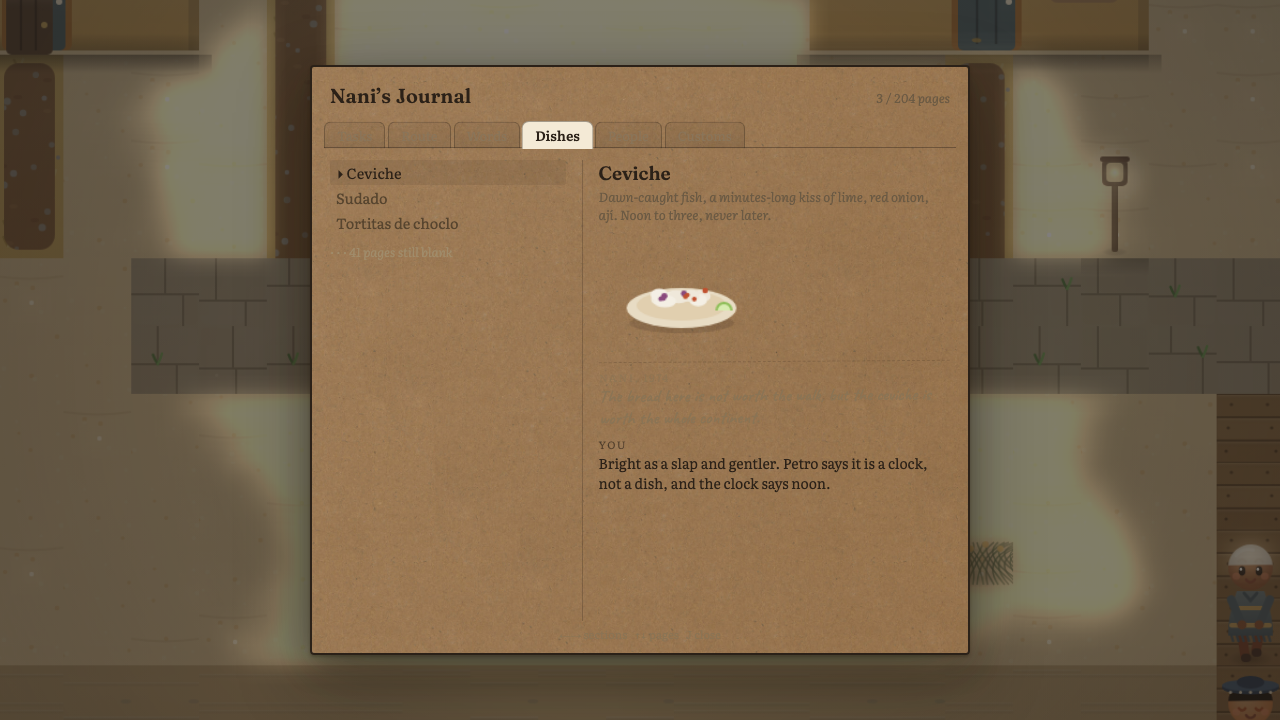
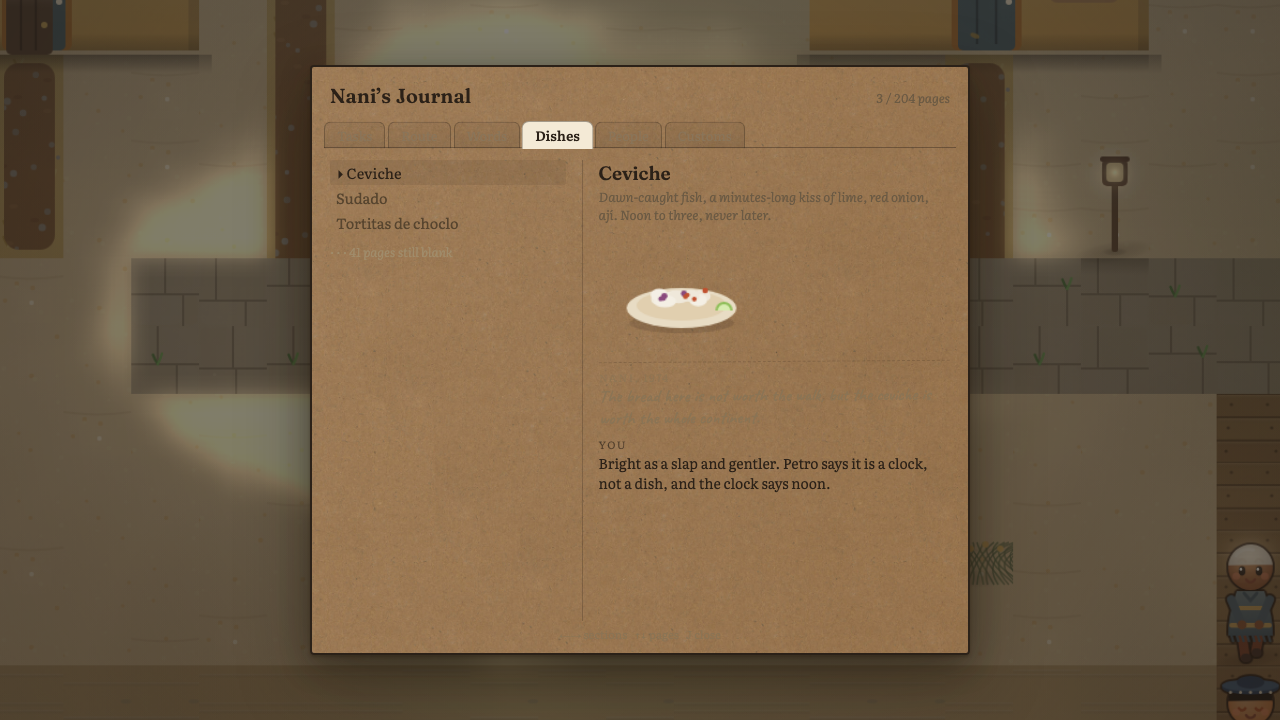
World art refactor, gouache-illustration edition
Cut-paper ink outlines on every figure (people and animals), a real
directional sun with skewed cast shadows that stretch at dusk, two-octave
ground washes so fields stop being flat fills, muted ground bases so
figures carry the chroma, paper grain over the whole frame, a gentle
saturation grade on the GPU stage. The Oaxaca village finally has its
name: San Isidro Guelazana.

diff --git a/src/engine/renderer.ts b/src/engine/renderer.ts
@@ -52,6 +52,8 @@ export class Renderer {
   private emotes: Emote[] = [];
   private puffs: Puff[] = [];
 
+  private grain: CanvasPattern | null = null;
+
   constructor(readonly canvas: HTMLCanvasElement) {
     const ctx = canvas.getContext('2d', { alpha: false });
     if (!ctx) throw new Error('2d canvas context unavailable');
@@ -61,6 +63,13 @@ export class Renderer {
     ctx.imageSmoothingEnabled = true;
     ctx.imageSmoothingQuality = 'high';
     this.atmospheres = buildAtmospheres();
+    // Paper tooth over the whole frame: the world is an illustration in her
+    // journal, and illustrations live on paper. Loads lazily; absent, no harm.
+    const grainImg = new Image();
+    grainImg.onload = () => {
+      this.grain = ctx.createPattern(grainImg, 'repeat');
+    };
+    grainImg.src = '/assets/textures/paper-grain-white.jpg';
   }
 
   /** Chapters bring their own weather. */
@@ -169,8 +178,14 @@ export class Renderer {
     for (const t of tall) {
       layers.push({
         sort: t.cy + 0.5,
-        draw: () =>
-          this.tiles.drawTall(ctx, t.kind, (t.cx * TILE - cam.x) * A, (t.cy * TILE - cam.y) * A, t.cx, t.cy),
+        draw: () => {
+          const tx = (t.cx * TILE - cam.x) * A;
+          const ty = (t.cy * TILE - cam.y) * A;
+          // Trees and freestanding props cast into the same sun as people.
+          if (t.kind === 'tree' || t.kind === 'palm') this.castShadow(tx + S / 2, ty + S - 8, 52, 0.2);
+          else if (this.tiles.castsSun(t.kind)) this.castShadow(tx + S / 2, ty + S - 6, 34, 0.18);
+          this.tiles.drawTall(ctx, t.kind, tx, ty, t.cx, t.cy);
+        },
       });
     }
     layers.sort((a, b) => a.sort - b.sort);
@@ -189,53 +204,87 @@ export class Renderer {
     this.drawWeather(map, cam);
     const atm = this.atmospheres[this.mood] ?? this.atmospheres['warm'];
     if (atm) ctx.drawImage(atm, 0, 0);
+    if (this.grain) {
+      ctx.save();
+      ctx.globalCompositeOperation = 'multiply';
+      ctx.globalAlpha = 0.09;
+      ctx.fillStyle = this.grain;
+      ctx.fillRect(0, 0, W, H);
+      ctx.restore();
+    }
   }
 
   /** World-anchored tonal patches, keyed to a coarse grid so they never move. */
   private groundTint(map: TileMap, cam: Camera, x0: number, y0: number, x1: number, y1: number) {
     const ctx = this.ctx;
+    // Two octaves of gouache: broad warm/cool washes the size of a meadow,
+    // then the familiar smaller patches. Flat fields stop being flat.
     const TINTS = [
-      'rgba(96,70,36,0.085)', // dry shadowed earth
-      'rgba(255,236,180,0.075)', // sun-bleached
-      'rgba(88,104,60,0.07)', // faint green flush
-      'rgba(140,90,50,0.06)', // iron warmth
+      'rgba(96,70,36,0.11)', // dry shadowed earth
+      'rgba(255,236,180,0.10)', // sun-bleached
+      'rgba(88,104,60,0.10)', // faint green flush
+      'rgba(140,90,50,0.08)', // iron warmth
     ];
-    for (let gy = (y0 >> 2) - 1; gy <= (y1 >> 2) + 1; gy++) {
-      for (let gx = (x0 >> 2) - 1; gx <= (x1 >> 2) + 1; gx++) {
-        const h = cellHash(gx, gy, 101);
-        if (h > 0.62) continue;
-        const tint = TINTS[Math.floor(h * 40) % TINTS.length] ?? TINTS[0]!;
-        const wx = (gx * 4 + 2 + (cellHash(gx, gy, 55) - 0.5) * 4) * TILE;
-        const wy = (gy * 4 + 2 + (cellHash(gx, gy, 77) - 0.5) * 4) * TILE;
-        // Skip patches centered outside the map so scree stays calm.
-        if (!map.inBounds(Math.floor(wx / TILE), Math.floor(wy / TILE))) continue;
-        const x = (wx - cam.x) * A;
-        const y = (wy - cam.y) * A;
-        const r = (2.2 + cellHash(gx, gy, 91) * 2.4) * TILE * A;
-        const grad = ctx.createRadialGradient(x, y, r * 0.15, x, y, r);
-        grad.addColorStop(0, tint);
-        grad.addColorStop(1, 'rgba(0,0,0,0)');
-        ctx.fillStyle = grad;
-        ctx.fillRect(x - r, y - r, r * 2, r * 2);
+    const octave = (cell: number, salt: number, rBase: number, rVar: number, boost: number) => {
+      const gy0 = Math.floor(y0 / cell) - 1;
+      const gy1 = Math.floor(y1 / cell) + 1;
+      const gx0 = Math.floor(x0 / cell) - 1;
+      const gx1 = Math.floor(x1 / cell) + 1;
+      for (let gy = gy0; gy <= gy1; gy++) {
+        for (let gx = gx0; gx <= gx1; gx++) {
+          const h = cellHash(gx, gy, salt);
+          if (h > 0.62) continue;
+          const tint = TINTS[Math.floor(h * 40) % TINTS.length] ?? TINTS[0]!;
+          const wx = (gx * cell + cell / 2 + (cellHash(gx, gy, salt + 3) - 0.5) * cell) * TILE;
+          const wy = (gy * cell + cell / 2 + (cellHash(gx, gy, salt + 7) - 0.5) * cell) * TILE;
+          // Skip patches centered outside the map so scree stays calm.
+          if (!map.inBounds(Math.floor(wx / TILE), Math.floor(wy / TILE))) continue;
+          const x = (wx - cam.x) * A;
+          const y = (wy - cam.y) * A;
+          const r = (rBase + cellHash(gx, gy, salt + 11) * rVar) * TILE * A;
+          const grad = ctx.createRadialGradient(x, y, r * 0.15, x, y, r);
+          grad.addColorStop(0, tint);
+          grad.addColorStop(1, 'rgba(0,0,0,0)');
+          ctx.save();
+          ctx.globalAlpha = boost;
+          ctx.fillStyle = grad;
+          ctx.fillRect(x - r, y - r, r * 2, r * 2);
+          ctx.restore();
+        }
       }
-    }
+    };
+    octave(9, 131, 5.5, 4.5, 1); // the meadow-scale washes
+    octave(4, 101, 2.2, 2.4, 0.9); // the close-up dapple
+  }
+
+  /**
+   * The sun has a direction. Everything that stands casts a soft skewed
+   * shadow toward the north-west of the screen; at dusk the shadows stretch.
+   * This one pass does more "real place" work than any texture.
+   */
+  private castShadow(sx: number, sy: number, w: number, strength = 0.22) {
+    const ctx = this.ctx;
+    const stretch = 1 + this.nightK * 0.5; // dusk pulls shadows long
+    const grad = ctx.createRadialGradient(sx, sy, 2, sx, sy, w);
+    grad.addColorStop(0, `rgba(38,26,14,${strength})`);
+    grad.addColorStop(0.7, `rgba(38,26,14,${strength * 0.4})`);
+    grad.addColorStop(1, 'rgba(38,26,14,0)');
+    ctx.save();
+    ctx.translate(sx, sy);
+    // Skew toward the lower-left: late-morning Andean sun, kept forever.
+    ctx.transform(1, 0, -0.55, 0.34 * stretch, 0, 0);
+    ctx.translate(-sx, -sy);
+    ctx.fillStyle = grad;
+    ctx.fillRect(sx - w, sy - w, w * 2, w * 2);
+    ctx.restore();
   }
 
   private drawSprite(s: Sprite, sxf: number, syf: number, index: number) {
     const ctx = this.ctx;
     const sx = Math.round(sxf);
     const sy = Math.round(syf);
-    // Soft contact shadow; the body bobs over it.
-    const shGrad = ctx.createRadialGradient(sx + S / 2, sy + S - 6, 2, sx + S / 2, sy + S - 6, 22);
-    shGrad.addColorStop(0, 'rgba(26,18,12,0.30)');
-    shGrad.addColorStop(1, 'rgba(26,18,12,0)');
-    ctx.save();
-    ctx.translate(sx + S / 2, sy + S - 6);
-    ctx.scale(1, 0.38);
-    ctx.translate(-(sx + S / 2), -(sy + S - 6));
-    ctx.fillStyle = shGrad;
-    ctx.fillRect(sx + S / 2 - 24, sy + S - 30, 48, 48);
-    ctx.restore();
+    // A directional cast shadow: the figure stands IN the light, not on a dot.
+    this.castShadow(sx + S / 2, sy + S - 6, 30, 0.24);
 
     const row = DIR_ROW[s.actor.dir];
     const dx = sx - Math.floor((AW - S) / 2);

diff --git a/src/art/pix.ts b/src/art/pix.ts
@@ -265,19 +265,38 @@ export function rect(
 }
 
 /**
- * Adds a 1px dark outline around every sprite in a sheet, cell by cell so
- * neighboring frames never bleed into each other. Classic pixel-art
- * readability: characters pop off any background.
+ * Wraps every sprite in a sheet with a soft ink edge, cell by cell so
+ * neighboring frames never bleed into each other. In the smooth era this is
+ * the cut-paper look: figures read as illustrations pasted into the world,
+ * and pop off any ground they stand on.
  */
+/** Mixes a hex color toward its own gray, for grounds that should recede. */
+export function mute(hex: string, k: number): string {
+  const n = Number.parseInt(hex.slice(1), 16);
+  const r = (n >> 16) & 0xff;
+  const g = (n >> 8) & 0xff;
+  const b = n & 0xff;
+  const l = 0.299 * r + 0.587 * g + 0.114 * b;
+  const mix = (c: number) => Math.round(c + (l - c) * k);
+  return `#${((mix(r) << 16) | (mix(g) << 8) | mix(b)).toString(16).padStart(6, '0')}`;
+}
+
 export function outlineSheet(
   sheet: HTMLCanvasElement,
   cellW: number,
   cellH: number,
-  color = '#241a12',
+  color = 'rgba(38,26,16,0.55)',
+  radius = 2,
 ): HTMLCanvasElement {
   const { cv: out, g } = surface(sheet.width, sheet.height);
   const { cv: cell, g: cg } = surface(cellW, cellH);
   const { cv: sil, g: sg } = surface(cellW, cellH);
+
+  // Eight offsets make a smooth ring at antialiased resolution.
+  const ring: [number, number][] = [];
+  for (let k = 0; k < 8; k++) {
+    ring.push([Math.cos((k / 8) * Math.PI * 2) * radius, Math.sin((k / 8) * Math.PI * 2) * radius]);
+  }
 
   for (let cy = 0; cy < sheet.height; cy += cellH) {
     for (let cx = 0; cx < sheet.width; cx += cellW) {
@@ -290,13 +309,13 @@ export function outlineSheet(
       sg.globalCompositeOperation = 'source-in';
       sg.fillStyle = color;
       sg.fillRect(0, 0, cellW, cellH);
-      // Stamp the silhouette at the four cardinal offsets, then the art on
-      // top, clipped so nothing leaks into the neighboring frame.
+      // Stamp the silhouette around the ring, then the art on top, clipped
+      // so nothing leaks into the neighboring frame.
       g.save();
       g.beginPath();
       g.rect(cx, cy, cellW, cellH);
       g.clip();
-      for (const [dx, dy] of [[1, 0], [-1, 0], [0, 1], [0, -1]] as const) {
+      for (const [dx, dy] of ring) {
         g.drawImage(sil, cx + dx, cy + dy);
       }
       g.drawImage(cell, cx, cy);

diff --git a/src/art/tiles.ts b/src/art/tiles.ts
@@ -1,5 +1,5 @@
 import { ART, PAL, TILE } from '../engine/config';
-import { Rng, blob, cellHash, dot, glowSpot, oval, rect, rr, shade, softShadow, surface, vgrad } from './pix';
+import { Rng, blob, cellHash, dot, glowSpot, mute, oval, rect, rr, shade, softShadow, surface, vgrad } from './pix';
 import { ART_SETS } from './sets';
 
 /**
@@ -67,7 +67,7 @@ export class Tileset {
     };
 
     this.make('puna', 6, (g, r) => {
-      groundBase(g, r, shade(PAL.gold, 0.02));
+      groundBase(g, r, mute(shade(PAL.gold, 0.02), 0.12));
       for (let i = 0; i < 7; i++) {
         grassTuft(g, r, 10 + r.int(S - 20), 14 + r.int(S - 20), shade(PAL.goldDark, 0.06), shade(PAL.gold, 0.16));
       }
@@ -75,7 +75,7 @@ export class Tileset {
     });
 
     this.make('grass', 5, (g, r) => {
-      groundBase(g, r, shade(PAL.green, 0.03));
+      groundBase(g, r, mute(shade(PAL.green, 0.03), 0.14));
       for (let i = 0; i < 7; i++) {
         grassTuft(g, r, 10 + r.int(S - 20), 14 + r.int(S - 20), shade(PAL.greenDark, 0.1), shade(PAL.green, 0.2));
       }
@@ -911,7 +911,7 @@ export class Tileset {
     // ------------------------------------------------------------ the coast
 
     this.make('sand', 5, (g, r) => {
-      groundBase(g, r, shade('#d9c298', 0.02));
+      groundBase(g, r, mute(shade('#d9c298', 0.02), 0.1));
       for (let i = 0; i < 6; i++) {
         dot(g, r.int(S), r.int(S), 1.4 + r.next(), shade('#d9c298', r.chance(0.5) ? -0.09 : 0.1));
       }
@@ -1434,13 +1434,18 @@ export class Tileset {
     }
   }
 
+  /** Freestanding props whose sun shadow the renderer casts directionally. */
+  castsSun(kind: string): boolean {
+    return GROUNDED_TALL.has(ART_ALIAS[kind] ?? kind) || GROUNDED_TALL.has(kind);
+  }
+
   drawTall(g: CanvasRenderingContext2D, kind: string, sx: number, sy: number, cx: number, cy: number) {
     const cvs = this.variant(kind, cx, cy);
     const building = BUILDINGS.has(kind);
     const ox = building ? ART * 4 : Math.floor((cvs.width - S) / 2);
     const oy = cvs.height - S;
     if (kind === 'tree') {
-      softShadow(g, sx + S / 2, sy + S - 8, 40, 12, 0.24);
+      // The renderer casts the directional shadow; nothing extra here.
     } else if (building) {
       // The building grounds itself with a long soft base shadow.
       const grad = g.createLinearGradient(0, sy + S, 0, sy + S + 18);

diff --git a/src/render/stage.ts b/src/render/stage.ts
@@ -1,6 +1,7 @@
 import {
   Application,
   CanvasSource,
+  ColorMatrixFilter,
   Container,
   RenderTexture,
   Sprite,
@@ -107,7 +108,12 @@ export class PixiStage {
     s.scene.addChild(worldSprite);
     s.scene.addChild(lightLayer);
     for (const gl of s.glowPool) s.scene.addChild(gl);
+    // A touch of gouache richness: figures and props carry slightly more
+    // chroma than the receding grounds, so the saturation lands where it should.
+    const grade = new ColorMatrixFilter();
+    grade.saturate(0.08, true);
     s.scene.filters = [
+      grade,
       new AdvancedBloomFilter({ threshold: 0.66, bloomScale: 0.5, brightness: 1, blur: 6, quality: 4 }),
     ];
 

diff --git a/src/art/animals.ts b/src/art/animals.ts
@@ -1,5 +1,5 @@
 import { ART, PAL } from '../engine/config';
-import { dot, oval, shade, softShadow, surface } from './pix';
+import { dot, outlineSheet, oval, shade, softShadow, surface } from './pix';
 import { CHAR_H, CHAR_W, DIR_ROW } from './character';
 
 /**
@@ -29,7 +29,8 @@ function sheet(draw: (g: CanvasRenderingContext2D, dir: 'down' | 'up' | 'left', 
       g.restore();
     }
   }
-  return cv;
+  // Same cut-paper edge as the people; the dog is pasted in too.
+  return outlineSheet(cv, AW, AH);
 }
 
 /** The village dog: tan, optimistic, employed. */

diff --git a/src/art/character.ts b/src/art/character.ts
@@ -1,5 +1,5 @@
 import { ART, PAL } from '../engine/config';
-import { dot, oval, rr, shade, surface, vgrad } from './pix';
+import { dot, outlineSheet, oval, rr, shade, surface, vgrad } from './pix';
 
 /**
  * Character rig, smooth-art era. Logical size stays 20x32 (2 tiles tall);
@@ -60,7 +60,8 @@ export function makeSheet(look: Look): HTMLCanvasElement {
       g.restore();
     }
   }
-  return cv;
+  // The cut-paper edge: figures are illustrations pasted into the world.
+  return outlineSheet(cv, AW, AH);
 }
 
 /**

diff --git a/src/content/oaxaca/map.ts b/src/content/oaxaca/map.ts
@@ -106,7 +106,7 @@ const main = paint(W, H, groundAt, objectAt);
 
 export const OAXACA_MAP: MapData = {
   id: 'oaxaca',
-  name: 'The Valley Village',
+  name: 'San Isidro Guelazana',
   spawn: [24, 27],
   spawnFacing: 'up',
   triggers: [
